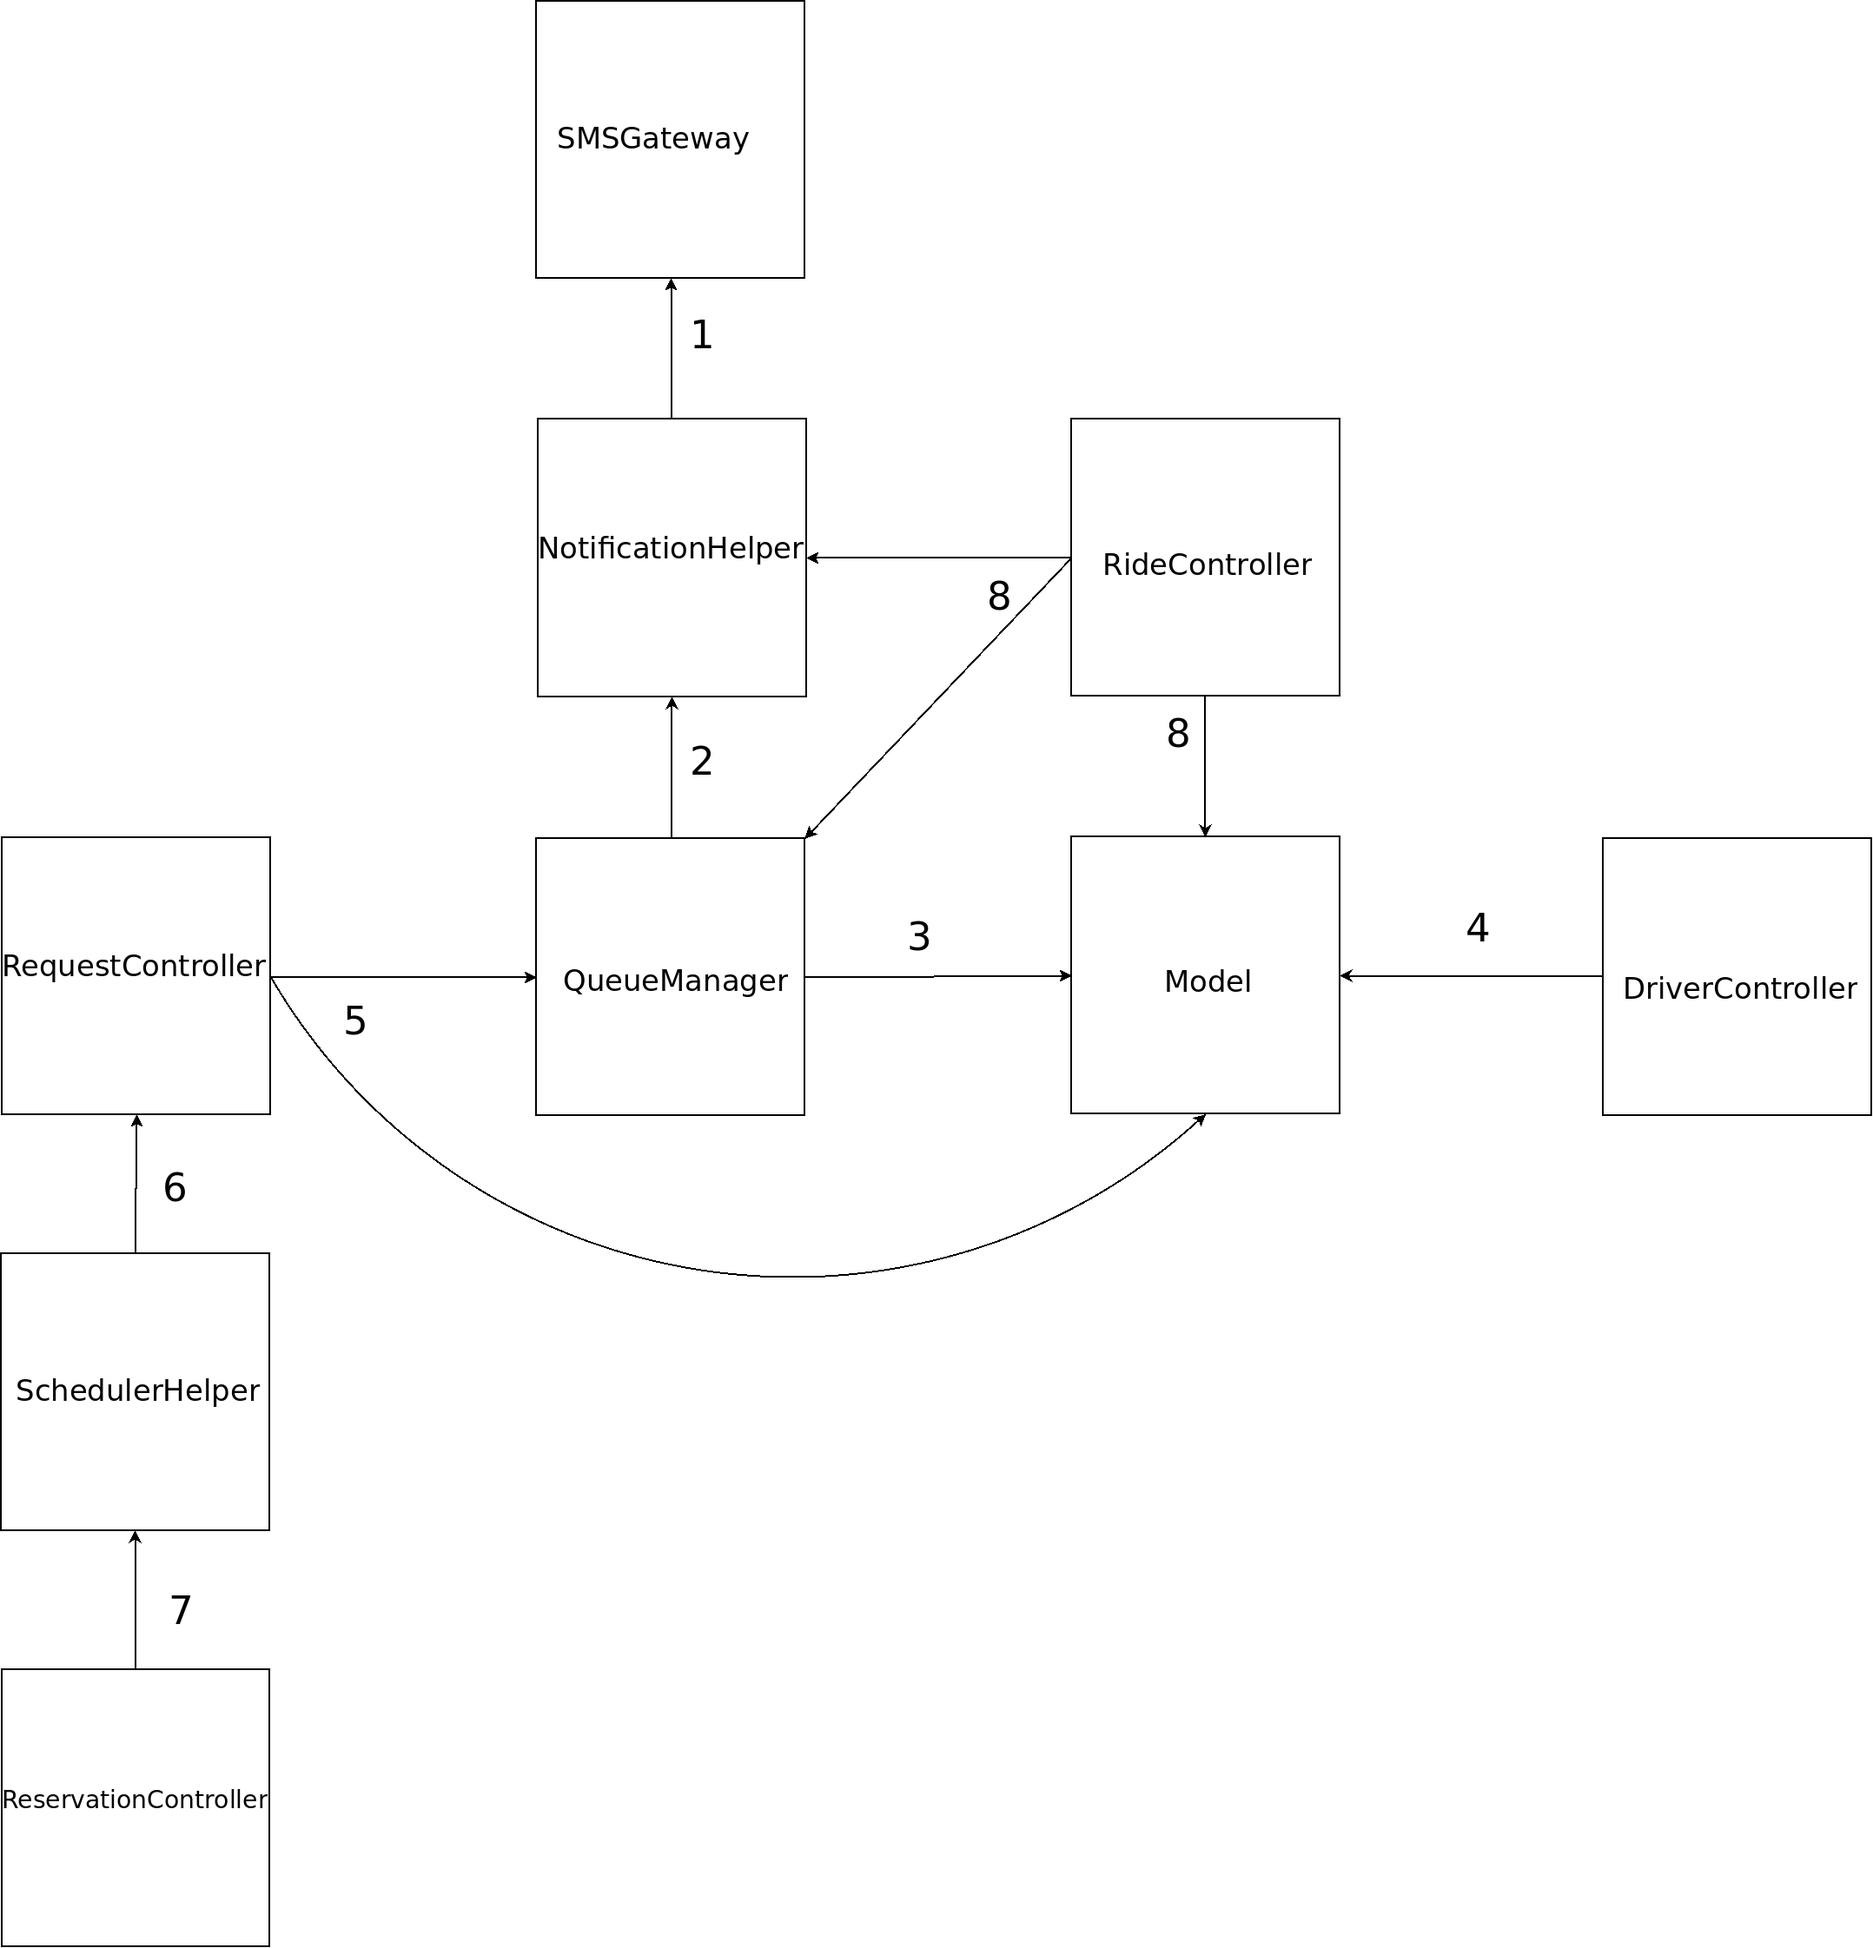
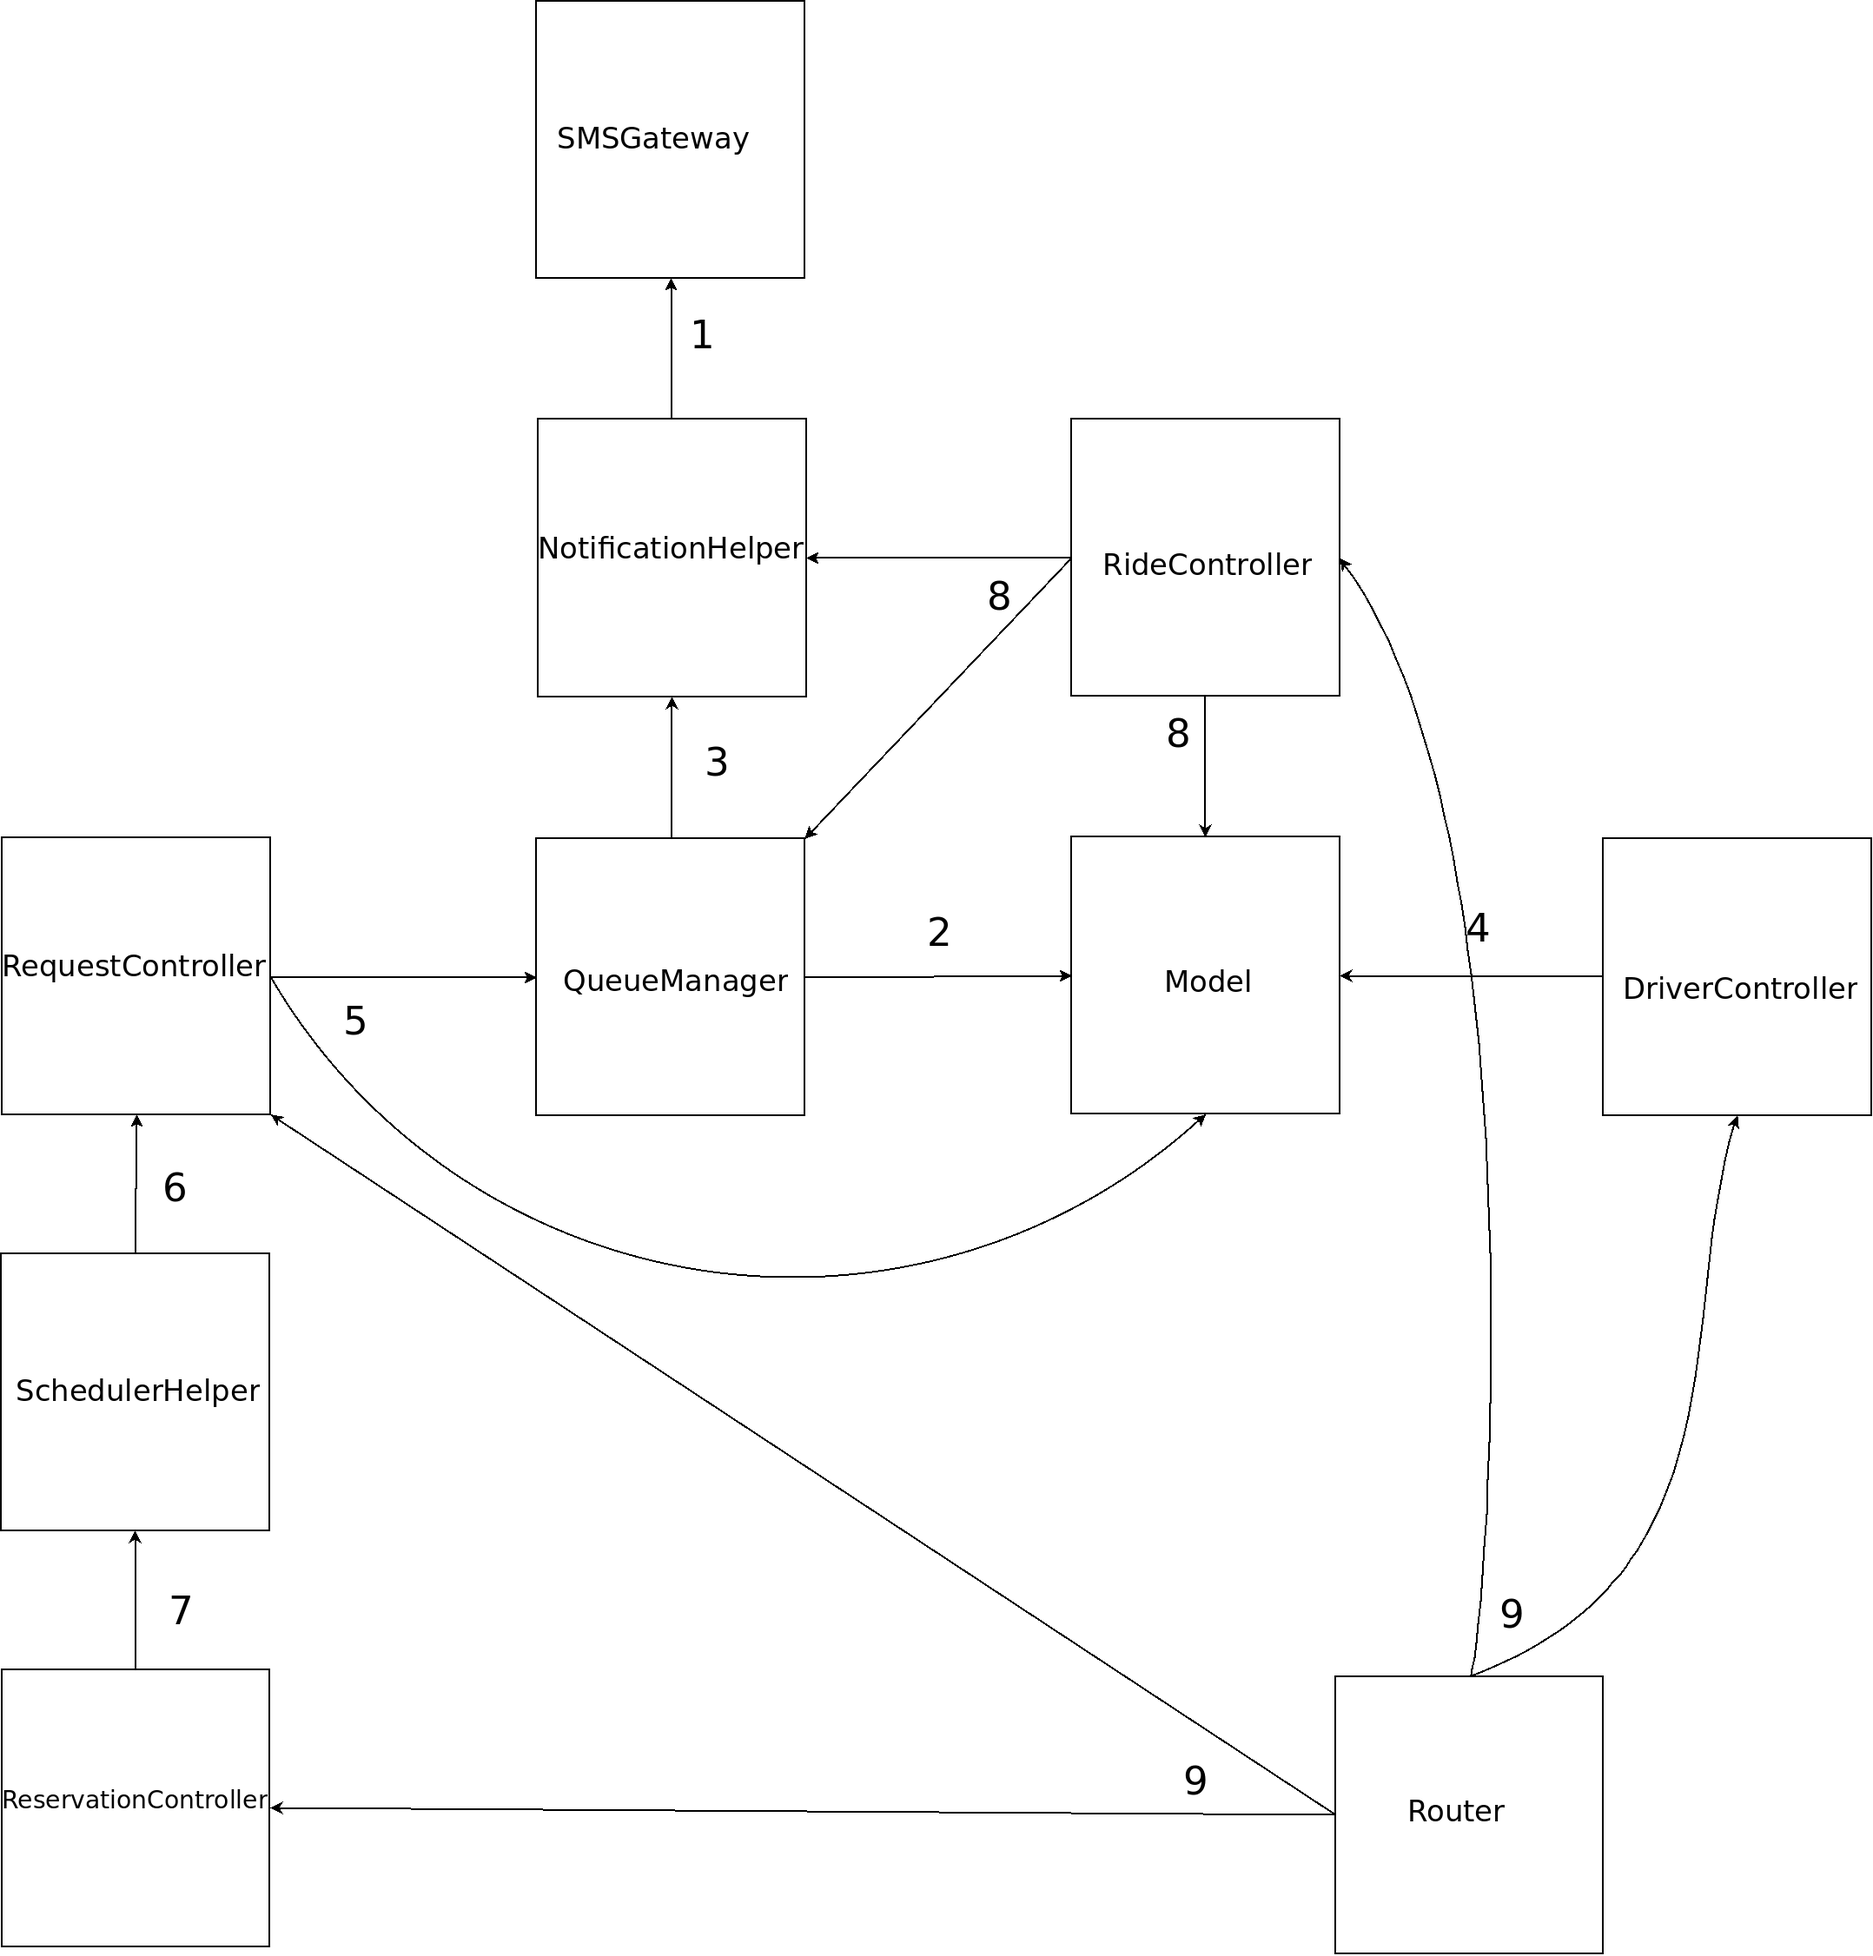
small modifications + controllers sequence update

diff --git a/TP/src/index.md b/TP/src/index.md
@@ -105,14 +105,20 @@ getter and setter methods can be skipped.
 
 ## 2.2. Elements to be Integrated
 
+**[Gilles : I think it is very good works :) I would just have one suggestion. I think since we descripe the integration strategy lower, maybe we should put your work in section 3 and here we should just put again our component vieux (modified) from the DD and say that these are the components to be integrated. Maybe you already planned to do this, I'm not sure. Do not hesitate to ask me if you want me to put the component vieux here and make some blabla ;) ]**
 
+**Gilles: this table should be in the "2.4.1.2 The controllers" since it shows the integration sequence**
 |**ID**|**Integration Test**|**Paragraphs**|
 |------|--------------------|--------------|
 |I1    |NotificationHelper -> SMSGateway | ?? ?? ?? |
-|I2    |QueueManager -> NotificationHelper | ?? ?? ?? |
-|I3    |QueueManager -> Model | ?? ?? ?? |
+|I2    |QueueManager -> Model | ?? ?? ?? |
+|I3    |QueueManager -> NotificationHelper | ?? ?? ?? |
 |I4    |DriverController -> Model | ?? ?? ?? |
-
+|I5    |RequestController -> Model & QueueManager | ?? ?? ?? |
+|I6    |SchedulerHelper -> RequestController | ?? ?? ?? |
+|I7    |ReservationController -> SchedulerHelper | ?? ?? ?? |
+|I8    |RideController -> Model & QueueManager & NotificationHelper | ?? ?? ?? |
+|I9    |Router -> RideController & RequestController & RideController & DriverController | ?? ?? ?? |
 #### QueueManager
 
 #### Integration test case I1
@@ -270,10 +276,10 @@ The driver subsystem, the client subsystem and the database subsystem are atomic
 
 | **ID** | **Integration Tests** | **Sections** |
 |--------|-----------------------|--------------|
-|S1|Model --> Controler = Central|              |
-|S2|Database --> Central         |              |
-|S3|Driver --> Central           |              |
-|S4|Client --> Central           |              |
+|S1|Model -> Controler = Central|              |
+|S2|Database -> Central         |              |
+|S3|Driver -> Central           |              |
+|S4|Client -> Central           |              |
 
 **Sections will have to be added once defined in section 3. If you guys know how to to nice arrows instead of "-->" please show me ;)**
 

diff --git a/other/hours.md b/other/hours.md
@@ -73,6 +73,8 @@
   * 15/01/16: 2h30
   * 17/01/16: 1h
   * 18/01/16: 1h
+  * 19/01/16: 1h
+  * 20/01/16: 30min
 
 # Massimo Dragano
 * RASD
